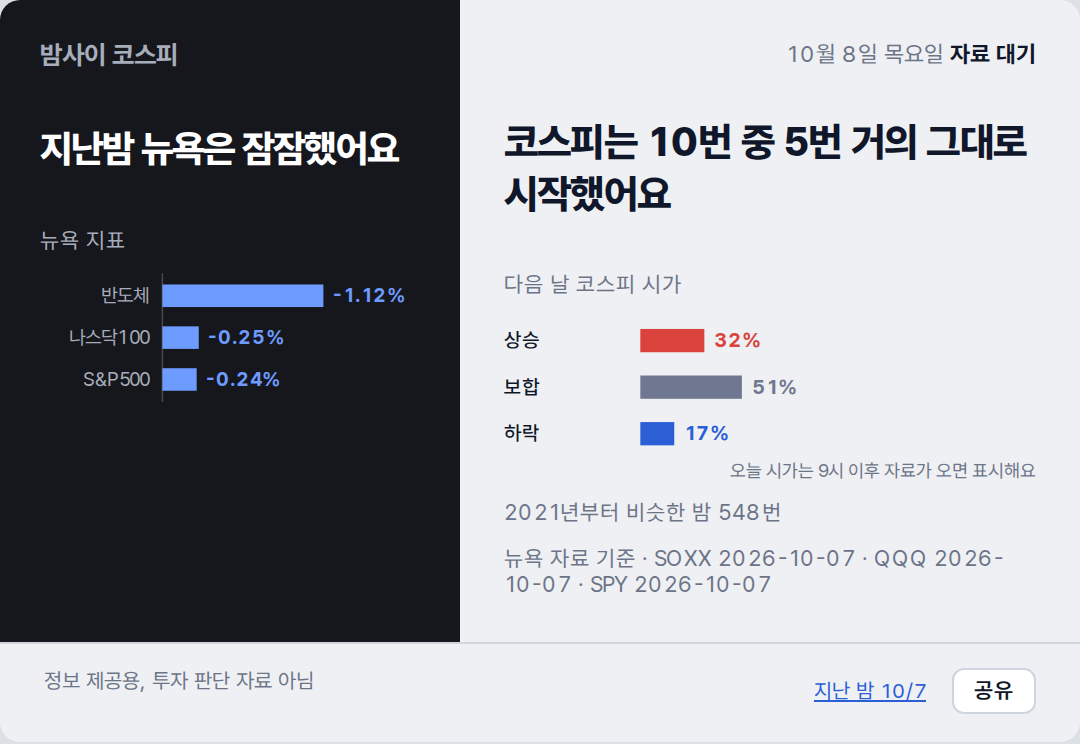
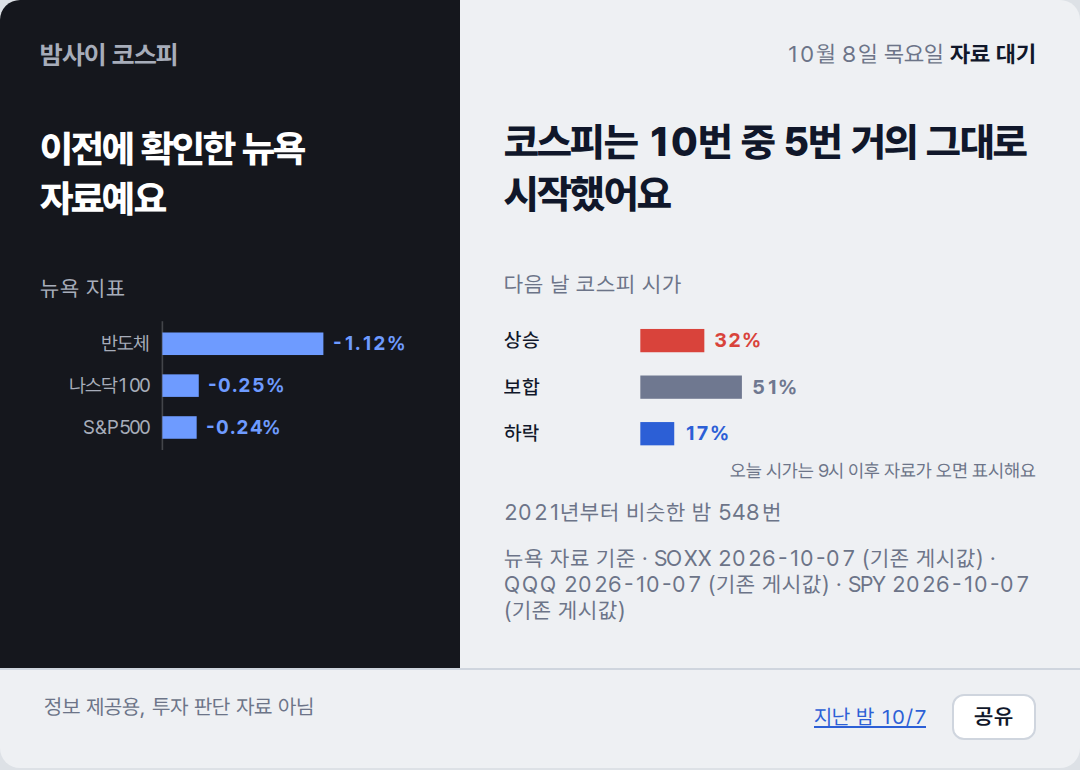
deploy: c0d07a214321b41f7cf333fef670b17ffe5b5852

diff --git a/2026-10-08/index.html b/2026-10-08/index.html
@@ -2,7 +2,7 @@
 <title>밤사이 코스피 · 2026-10-08</title>
 <meta name="description" content="전일 코스피 마감에서 밤사이 뉴욕을 거쳐 오늘 코스피 시가까지, 한 장.">
 <meta property="og:type" content="article"><meta property="og:site_name" content="밤사이 코스피"><meta property="og:url" content="https://mjs0611.github.io/kospi-relay/2026-10-08/">
-<meta property="og:title" content="지난밤 뉴욕은 잠잠했어요"><meta property="og:description" content="코스피는 10번 중 5번 거의 그대로 시작했어요">
+<meta property="og:title" content="이전에 확인한 뉴욕 자료예요"><meta property="og:description" content="코스피는 10번 중 5번 거의 그대로 시작했어요">
 <meta property="og:image" content="https://mjs0611.github.io/kospi-relay/2026-10-08/relay.png"><meta property="og:image:width" content="1080"><meta name="twitter:card" content="summary_large_image">
 <link rel="stylesheet" href="https://cdn.jsdelivr.net/gh/orioncactus/pretendard@v1.3.9/dist/web/variable/pretendardvariable-dynamic-subset.min.css">
 <style>
@@ -26,7 +26,7 @@ footer a{color:#2C5FD6}
 .share{margin-left:10px;border:1px solid #CFD5DE;background:#FFF;color:#10172A;border-radius:6px;padding:4px 10px;font:600 11px var(--sans);cursor:pointer}
 @media (max-width:480px){.sheet{grid-template-columns:1fr}.cond{margin-top:18px}.claim{margin-top:4px}}
 </style></head><body><div class="sheet">
-<section class="night"><p class="brand">밤사이 코스피</p><p class="cond">지난밤 뉴욕은 잠잠했어요</p><p class="lab">뉴욕 지표</p><svg viewBox="0 0 236 84" xmlns="http://www.w3.org/2000/svg" font-family="var(--sans)" font-size="12">
+<section class="night"><p class="brand">밤사이 코스피</p><p class="cond">이전에 확인한 뉴욕 자료예요</p><p class="lab">뉴욕 지표</p><svg viewBox="0 0 236 84" xmlns="http://www.w3.org/2000/svg" font-family="var(--sans)" font-size="12">
 <line x1="76" y1="2" x2="76" y2="82" stroke="var(--rule)" stroke-width="1"/>
 <text x="68" y="20" text-anchor="end" fill="var(--muted)">반도체</text>
 <rect x="76" y="9" width="100.0" height="14" fill="var(--down)"/>
@@ -49,12 +49,12 @@ footer a{color:#2C5FD6}
 <rect x="82" y="65" width="20.4" height="14" fill="var(--down)"/>
 <text x="108.4" y="76" fill="var(--down)" font-weight="700">17%</text>
 <text x="320" y="98" text-anchor="end" fill="var(--muted)" font-size="11">오늘 시가는 9시 이후 자료가 오면 표시해요</text>
-</svg><p class="cap">2021년부터 비슷한 밤 548번</p><p class="cap">뉴욕 자료 기준 · SOXX 2026-10-07 · QQQ 2026-10-07 · SPY 2026-10-07</p></section>
+</svg><p class="cap">2021년부터 비슷한 밤 548번</p><p class="cap">뉴욕 자료 기준 · SOXX 2026-10-07 (기존 게시값) · QQQ 2026-10-07 (기존 게시값) · SPY 2026-10-07 (기존 게시값)</p></section>
 <footer><span>정보 제공용, 투자 판단 자료 아님</span><span style="white-space:nowrap"><a href="../2026-10-07/">지난 밤 10/7</a> <button class="share" type="button">공유</button></span></footer>
 <script>
 /* 공유: Web Share가 있으면 시스템 공유 시트, 없으면 링크 복사. 링크는 이 날짜 페이지(OG 카드 붙음) */
 document.querySelector('.share').addEventListener('click', async function () {
-  var url = 'https://mjs0611.github.io/kospi-relay/2026-10-08/', text = "지난밤 뉴욕은 잠잠했어요. 코스피는 10번 중 5번 거의 그대로 시작했어요";
+  var url = 'https://mjs0611.github.io/kospi-relay/2026-10-08/', text = "이전에 확인한 뉴욕 자료예요. 코스피는 10번 중 5번 거의 그대로 시작했어요";
   try { if (navigator.share) { await navigator.share({ title: '밤사이 코스피', text: text, url: url }); return; } } catch (e) { if (e && e.name === 'AbortError') return; }
   try { await navigator.clipboard.writeText(text + '\n' + url); this.textContent = '링크 복사됨'; } catch (e) { location.href = url; }
 });

diff --git a/index.html b/index.html
@@ -2,7 +2,7 @@
 <title>밤사이 코스피 · 2026-10-08</title>
 <meta name="description" content="전일 코스피 마감에서 밤사이 뉴욕을 거쳐 오늘 코스피 시가까지, 한 장.">
 <meta property="og:type" content="article"><meta property="og:site_name" content="밤사이 코스피"><meta property="og:url" content="https://mjs0611.github.io/kospi-relay/2026-10-08/">
-<meta property="og:title" content="지난밤 뉴욕은 잠잠했어요"><meta property="og:description" content="코스피는 10번 중 5번 거의 그대로 시작했어요">
+<meta property="og:title" content="이전에 확인한 뉴욕 자료예요"><meta property="og:description" content="코스피는 10번 중 5번 거의 그대로 시작했어요">
 <meta property="og:image" content="https://mjs0611.github.io/kospi-relay/2026-10-08/relay.png"><meta property="og:image:width" content="1080"><meta name="twitter:card" content="summary_large_image">
 <link rel="stylesheet" href="https://cdn.jsdelivr.net/gh/orioncactus/pretendard@v1.3.9/dist/web/variable/pretendardvariable-dynamic-subset.min.css">
 <style>
@@ -26,7 +26,7 @@ footer a{color:#2C5FD6}
 .share{margin-left:10px;border:1px solid #CFD5DE;background:#FFF;color:#10172A;border-radius:6px;padding:4px 10px;font:600 11px var(--sans);cursor:pointer}
 @media (max-width:480px){.sheet{grid-template-columns:1fr}.cond{margin-top:18px}.claim{margin-top:4px}}
 </style></head><body><div class="sheet">
-<section class="night"><p class="brand">밤사이 코스피</p><p class="cond">지난밤 뉴욕은 잠잠했어요</p><p class="lab">뉴욕 지표</p><svg viewBox="0 0 236 84" xmlns="http://www.w3.org/2000/svg" font-family="var(--sans)" font-size="12">
+<section class="night"><p class="brand">밤사이 코스피</p><p class="cond">이전에 확인한 뉴욕 자료예요</p><p class="lab">뉴욕 지표</p><svg viewBox="0 0 236 84" xmlns="http://www.w3.org/2000/svg" font-family="var(--sans)" font-size="12">
 <line x1="76" y1="2" x2="76" y2="82" stroke="var(--rule)" stroke-width="1"/>
 <text x="68" y="20" text-anchor="end" fill="var(--muted)">반도체</text>
 <rect x="76" y="9" width="100.0" height="14" fill="var(--down)"/>
@@ -49,12 +49,12 @@ footer a{color:#2C5FD6}
 <rect x="82" y="65" width="20.4" height="14" fill="var(--down)"/>
 <text x="108.4" y="76" fill="var(--down)" font-weight="700">17%</text>
 <text x="320" y="98" text-anchor="end" fill="var(--muted)" font-size="11">오늘 시가는 9시 이후 자료가 오면 표시해요</text>
-</svg><p class="cap">2021년부터 비슷한 밤 548번</p><p class="cap">뉴욕 자료 기준 · SOXX 2026-10-07 · QQQ 2026-10-07 · SPY 2026-10-07</p></section>
+</svg><p class="cap">2021년부터 비슷한 밤 548번</p><p class="cap">뉴욕 자료 기준 · SOXX 2026-10-07 (기존 게시값) · QQQ 2026-10-07 (기존 게시값) · SPY 2026-10-07 (기존 게시값)</p></section>
 <footer><span>정보 제공용, 투자 판단 자료 아님</span><span style="white-space:nowrap"><a href="./2026-10-07/">지난 밤 10/7</a> <button class="share" type="button">공유</button></span></footer>
 <script>
 /* 공유: Web Share가 있으면 시스템 공유 시트, 없으면 링크 복사. 링크는 이 날짜 페이지(OG 카드 붙음) */
 document.querySelector('.share').addEventListener('click', async function () {
-  var url = 'https://mjs0611.github.io/kospi-relay/2026-10-08/', text = "지난밤 뉴욕은 잠잠했어요. 코스피는 10번 중 5번 거의 그대로 시작했어요";
+  var url = 'https://mjs0611.github.io/kospi-relay/2026-10-08/', text = "이전에 확인한 뉴욕 자료예요. 코스피는 10번 중 5번 거의 그대로 시작했어요";
   try { if (navigator.share) { await navigator.share({ title: '밤사이 코스피', text: text, url: url }); return; } } catch (e) { if (e && e.name === 'AbortError') return; }
   try { await navigator.clipboard.writeText(text + '\n' + url); this.textContent = '링크 복사됨'; } catch (e) { location.href = url; }
 });
